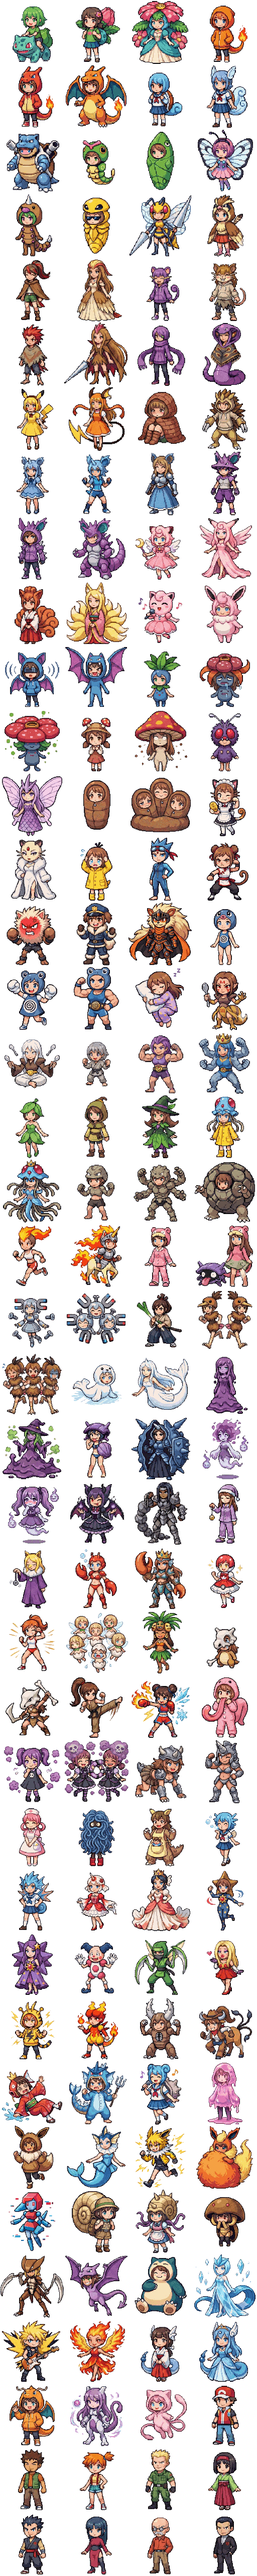
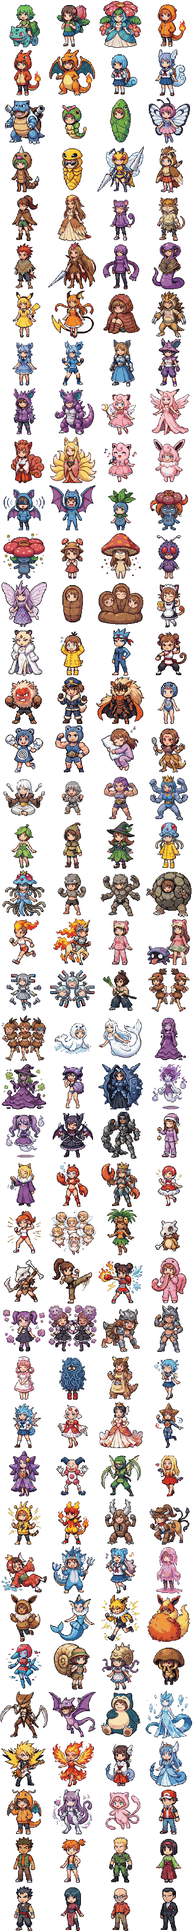
feat: Update sprite sheet image and adjust sprite loader size to 96px.

diff --git a/sprite-loader.js b/sprite-loader.js
@@ -3,7 +3,7 @@
 class SpriteLoader {
     constructor() {
         this.spriteSheet = document.getElementById('sprite-sheet');
-        this.spriteSize = 128;
+        this.spriteSize = 96;
         this.columns = 4;
         this.loaded = false;
 
